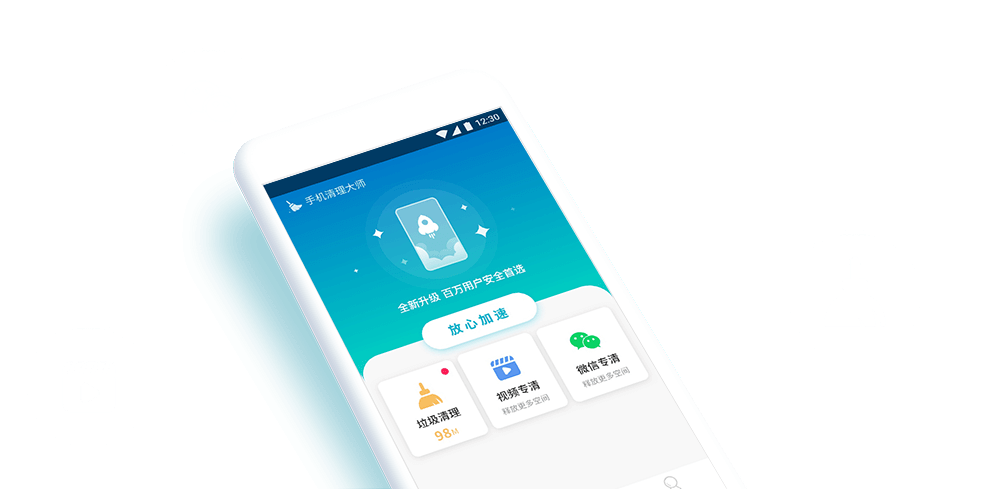
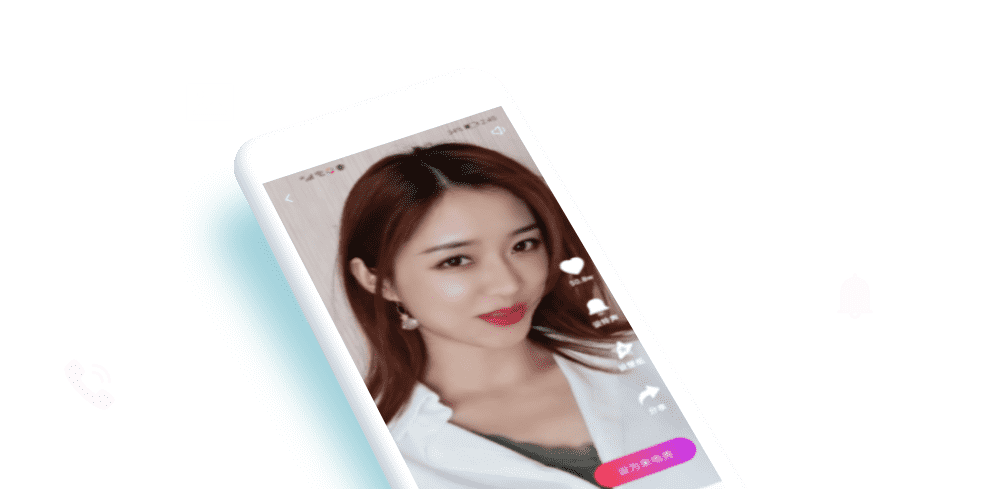
樱桃超炫来电秀

Changed region(s): [[0.248, 0.2147, 0.744, 1.0]]

diff --git a/src/components/clear.js b/src/components/clear.js
@@ -1,61 +1,74 @@
 import React, { Component } from 'react'
 import './clear.styl'
 class Clear extends Component {
-    constructor(props) {           
-       super(props);
-       this.state = {}
-    }
-    render() {
-        return (
-            <div className="clear">
-               <div className="box">
-                    <div className="article flex-between">
-                        <div className="left flex-column flex-justify-center">
-                            <img src={require("../assets/images/ic_bost_white.png")} alt="" width="104" height="104"/>
-                            <div className="title">手机加速</div>
-                            <div className="paragraph">
-                                清理无用进程，降低内存使用，消除卡顿，一键加速，让手机恢复出厂时的速度
-                            </div>
-
-                        </div>
-                        <div className="right">
-                            <img src={require("../assets/images/phone_boost.png")} alt=""/>
-                        </div>
-                    </div>
-               </div>
-               <div className="box middle">
-                    <div className="article flex-between">
-                        <div className="right ">
-                                <img src={require("../assets/images/phone_rubbishclean.png")} alt=""/>
-                        </div>
-                        <div className="left flex-column flex-justify-center">
-                            <img src={require("../assets/images/ic_rubbishclean_white.png")} alt="" width="104" height="104"/>
-                            <div className="title">垃圾清理</div>
-                            <div className="paragraph">
-                                智能扫描手机垃圾，急速清理，手机更干净，运行更快速
-                            </div>
-
-                        </div>
-                        
-                    </div>
-               </div>
-               <div className="box">
-                    <div className="article flex-between">
-                        <div className="left flex-column flex-justify-center">
-                            <img src={require("../assets/images/ic_wechatclean_white.png")} alt="" width="104" height="104"/>
-                            <div className="title">微信清理</div>
-                            <div className="paragraph">
-                                扫描微信缓存，让微信更快速，消除手机卡顿
-                            </div>
-
-                        </div>
-                        <div className="right">
-                            <img src={require("../assets/images/phone_wechatclean.png")} alt=""/>
-                        </div>
-                    </div>
-               </div>
+  constructor(props) {
+    super(props)
+    this.state = {}
+  }
+  render() {
+    return (
+      <div className="clear">
+        <div className="box middle">
+          <div className="article flex-between">
+            <div className="left flex-column flex-justify-center">
+              <img
+                src={require('../assets/images/ic_rubbishclean_white.png')}
+                alt=""
+                width="104"
+                height="104"
+              />
+              <div className="title">设置来电秀</div>
+              <div className="paragraph">
+                来电时的来电秀不再单一，不仅有铃声还有画面
+              </div>
             </div>
-        );
-    }
+            <div className="right ">
+              <img
+                src={require('../assets/images/phone_rubbishclean.png')}
+                alt=""
+              />
+            </div>
+          </div>
+        </div>
+        <div className="box">
+          <div className="article flex-between">
+            <div className="right">
+              <img
+                src={require('../assets/images/phone_wechatclean.png')}
+                alt=""
+              />
+            </div>
+            <div className="left flex-column flex-justify-center">
+              <img
+                src={require('../assets/images/ic_wechatclean_white.png')}
+                alt=""
+                width="104"
+                height="104"
+              />
+              <div className="title">设置壁纸</div>
+              <div className="paragraph">手机壁纸过于单调，为何不换张个性壁纸，海量壁纸任你选</div>
+            </div>
+          </div>
+        </div>
+        <div className="box middle">
+          <div className="article flex-between">
+            <div className="left flex-column flex-justify-center">
+              <img
+                src={require('../assets/images/ic_bost_white.png')}
+                alt=""
+                width="104"
+                height="104"
+              />
+              <div className="title">换铃声</div>
+              <div className="paragraph">换个铃声，换个心情，总有适合你的一款专属铃声</div>
+            </div>
+            <div className="right">
+              <img src={require('../assets/images/phone_boost.png')} alt="" />
+            </div>
+          </div>
+        </div>
+      </div>
+    )
+  }
 }
-export default Clear;
+export default Clear

diff --git a/src/components/PrivacyPolicy.js b/src/components/PrivacyPolicy.js
@@ -319,8 +319,8 @@ function PrivacyPolicy(props) {
               <div>2. 我们设立了个人信息保护专职部门，您可以通过发送邮件至【meinan@meetstarinc.com】的方式与其联系。</div>
               <div>3. 一般情况下，我们将在十五天内回复。如果您对我们的回复不满意，特别是我们的个人信息处理行为损害了您的合法权益，您还可以向网信、电信、公安及工商等监管部门进行投诉或举报，或者向有关管辖权的法院提起诉讼。</div>
               <div>4. 公司信息如下：</div>
-              <div>公司名称：北京科莱悦动科技有限公司</div>
-              <div>注册地址：北京市朝阳区高碑店乡半壁店村惠河南街1008号B座5层东区5016</div>
+              <div>公司名称：北京铂展悦动科技有限公司</div>
+              <div>注册地址：北京市朝阳区高碑店乡半壁店村惠河南街1008号B座5层东区5026</div>
               <div>联系方式： 邵先生  13021236277</div>
               <div>附录 ：相关名词解释：</div>
               <div>1. 个人信息：指以电子或者其他方式记录的能够单独或者与其他信息结合识别特定自然人身份或者反映特定自然人活动情况的各种信息。个人信息包括个人基本信息、个人身份信息、个人生物识别信息、网络身份标识信息、个人通信信息、联系人信息、个人上网记录、个人常用设备信息、个人位置信息等。为免疑义，个人信息包括但不限于个人敏感信息。个人信息的定义我国现行法律下极为宽泛，参照《GB/T 35273—2020》《信息安全技术 个人信息安全规范》的定义，我们主要收集和处理的个人信息包括：</div>
@@ -392,7 +392,7 @@ function PrivacyPolicy(props) {
                   </table>
               </div>
               <div>3. 个人信息主体：指个人信息所标识的自然人。</div>
-              <div>4. 我们、微蜜友：指北京科莱悦动科技有限公司。</div>
+              <div>4. 我们、微蜜友：指北京铂展悦动科技有限公司。</div>
               <div>5. 唯一设备标识符：唯一设备标识符（是指由设备制造商编入到设备中的一串字符，可用于以独有方式标识相应设备（例如手机的 IMEI 号、mac地址）。</div>
               <div>6. 去标识化，指通过对个人信息的技术处理，使其在不借助额外信息的情况下，无法识别个人信息主体的过程。</div>
               <div>

diff --git a/src/components/about.js b/src/components/about.js
@@ -11,26 +11,29 @@ class About extends Component {
             <div className="about-box">
                 <div className="about">
                 <div className="header flex flex-items-center">
-                    <img src={require('../assets/images/logo.png')} alt=""/>
-                    <h3 className="logo">金刚超速手机保卫者</h3>
+                    <img src={require('../assets/images/logo.png')} alt="" width="48" height="48"/>
+                    <h3 className="logo">樱桃超炫来电秀</h3>
                 </div>
                 <div className="title">
                     关于我们
                 </div>
                 <p className="content">
-                    金刚超速手机保卫者是北京科莱悦动科技有限公司开发的一款安卓手机软件，可以实现提升手机运行速度、垃圾清理、电池优化、软件管理等功能。
+                樱桃超炫来电秀是北京铂展悦动科技有限公司开发的一款安卓手机软件，可以实现设置来电秀、设置壁纸、设置铃声等功能。
+
                 </p>
                 <p className="content">
-                    金刚超速手机保卫者是一款超棒的手机垃圾清理优化软件。轻松快速的一键清理垃圾，释放手机内存！快捷的工具App，针对性的清理各种垃圾，能够将你手机系统自带以及各种应用、游戏运行所产生的垃圾一键清理，手机运行也更快。
+                在樱桃超炫来电秀APP中，汇集了海量的壁纸、视频、铃声，给用户提供众多可选择的素材，让用户的手机更加炫酷，每天都有好心情。
+
+
                 </p>
                 <div  className="title">
                     联系我们
                 </div>
                 <p className="content">
-                    公司名称：北京科莱悦动科技有限公司
+                    公司名称：北京铂展悦动科技有限公司
                 </p>
                 <p className="content">
-                    注册地址：北京市朝阳区高碑店乡半壁店村惠河南街1008号B座5层东区5016
+                    注册地址：北京市朝阳区高碑店乡半壁店村惠河南街1008号B座5层东区5026
                 </p>
                 <p className="content">
                     联系方式： 邵先生  13021236277

diff --git a/src/components/Eula.js b/src/components/Eula.js
@@ -9,7 +9,7 @@ function Eula(props) {
                 <div>发布时间：2020年8月20日</div>
                 <div>更新时间：2020年8月20日</div>
                 <div>欢迎您使用手机清理大师软件及服务！</div>
-                <div>手机清理大师是北京科莱悦动科技有限公司（以下简称“微蜜友”）开发的一款安卓手机软件，可以实现提升手机运行速度、垃圾清理、电池优化、软件管理等功能。</div>
+                <div>手机清理大师是北京铂展悦动科技有限公司（以下简称“微蜜友”）开发的一款安卓手机软件，可以实现提升手机运行速度、垃圾清理、电池优化、软件管理等功能。</div>
                 <div>i.为使用手机清理大师产品及相应服务，您应当阅读并遵守本协议及手机清理大师隐私政策。请您务必审慎阅读、充分理解各条款内容，特别是免除或者限制责任的条款，并选择接受或不接受。限制、免责条款可能以加粗形式提示你注意。 </div>
                 <div>ii.除非你已阅读并接受本协议所有条款，否则你无权下载、安装或使用本软件及相关服务。您的下载、安装、使用、登录等行为即视为你已阅读并同意上述协议的约束。如您不同意本协议及隐私政策，请您立即停止使用本软件及服务。 </div>
                 <div>iii.此协议在必要时将随时进行修改更新，每次改动都会立即生效。你可以在本软件的最新版本中查阅相关协议条款。本协议条款变更后，如果您继续使用本软件，即视为您已接受修改后的协议。如果您拒绝接受修改后的协议，您应当停止使用本软件，并放弃使用手机清理大师提供的服务；若您继续使用手机清理大师提供的服务，则表明您接受新的协议。</div>
@@ -132,7 +132,7 @@ function Eula(props) {
                     微蜜友在法律允许的最大范围内保有对手机清理大师任何活动、限制等的最终解释权。
                 </div>
                 <div>
-                    北京科莱悦动科技有限公司
+                    北京铂展悦动科技有限公司
                 </div>
               </div>
               <Footer></Footer>

diff --git a/src/components/main.js b/src/components/main.js
@@ -12,18 +12,18 @@ class Main extends Component {
                 <div className="title-icon flex-between flex-items-center">
                         <div className="flex-column flex-items-center">
                             <img src={require("../assets/images/ic_boost.png")} alt="" width="116" height="116"/>
-                            <div className="subtitle">手机加速</div>
-                            <div className="paragraph">一键加速，释放内存</div>
+                            <div className="subtitle">设置来电秀</div>
+                            <div className="paragraph">来电秀更加与众不同</div>
                         </div>
                         <div className="flex-column flex-items-center">
                             <img src={require("../assets/images/ic_rubbishclean.png")} alt="" width="116" height="116"/>
-                            <div className="subtitle">垃圾清理</div>
-                            <div className="paragraph">智能识别，急速清理</div>
+                            <div className="subtitle">设置壁纸</div>
+                            <div className="paragraph">换张壁纸，换个心情</div>
                         </div>
                         <div className="flex-column flex-items-center">
                             <img src={require("../assets/images/ic_wechatclean.png")} alt="" width="116" height="116"/>
-                            <div className="subtitle">微信清理</div>
-                            <div className="paragraph">微信专清，杜绝卡慢</div>
+                            <div className="subtitle">换铃声</div>
+                            <div className="paragraph">告别单调的铃声</div>
                         </div>
                 </div>
                 </div>

diff --git a/src/components/footer.js b/src/components/footer.js
@@ -13,20 +13,20 @@ class Footer extends Component {
                     <div className="flex-between">
                             <div className="left flex-items-center">
                                 <img src={require("../assets/images/logo.png")} alt="" width="32" height="32"/>
-                                <span>金刚超速手机保卫者</span> 
+                                <span>樱桃超炫来电秀</span> 
                             </div>
                             <div className="right flex-items-center">
                                 <Link to="/">首页</Link>
                                 <span></span>
                                 <Link to="/about">关于我们</Link>
                                 <span></span>
-                                <a href="https://s3.cn-north-1.amazonaws.com.cn/static.suapp.mobi/jgql/service_agreement.html">服务协议</a>
+                                <a href="http://static.suapp.mobi/ytldx/service_agreement.html">服务协议</a>
                                 <span></span>
-                                <a href="https://s3.cn-north-1.amazonaws.com.cn/static.suapp.mobi/jgql/privacy_policy.html">隐私政策</a>
+                                <a href="http://static.suapp.mobi/ytldx/privacy_policy.html">隐私政策</a>
                             </div>
                     </div>
                     <div className="copyright">
-                       Copyright(C)2018-2021 北京科莱悦动科技有限公司
+                       Copyright(C)2020-2021 北京铂展悦动科技有限公司
                     </div>
                     
                </div>

diff --git a/src/components/nav.js b/src/components/nav.js
@@ -8,17 +8,17 @@ function nav(props) {
                     <div className="content flex-between">
                         <div className="left flex-items-center">
                         <img src={require("../assets/images/logo.png")} alt="" width="48" height="48"/> 
-                            <span className="fs-30 ml-10">金刚超速手机保卫者</span>
-                            <div className="label fs-18">让手机更流畅更好用</div>
+                            <span className="fs-30 ml-10">樱桃超炫来电秀</span>
+                            <div className="label fs-18">让手机来电更绚丽</div>
                         </div>
                         <div className="right flex-items-center">
                              <Link to="/">首页</Link>
                             <span></span>
                             <Link to="/about">关于我们</Link>
                             <span></span>
-                            <a href="https://s3.cn-north-1.amazonaws.com.cn/static.suapp.mobi/jgql/service_agreement.html">服务协议</a>
+                            <a href="http://static.suapp.mobi/ytldx/service_agreement.html">服务协议</a>
                             <span></span>
-                            <a href="https://s3.cn-north-1.amazonaws.com.cn/static.suapp.mobi/jgql/privacy_policy.html">隐私政策</a>
+                            <a href="http://static.suapp.mobi/ytldx/privacy_policy.html">隐私政策</a>
                         </div>
                     </div>
                </header>

diff --git a/src/components/header.js b/src/components/header.js
@@ -14,17 +14,17 @@ class Header extends Component {
                <div className="banner">
                     <div className="banner-main">
                         <div className="title flex-justify-center">
-                            金刚超速手机保卫者
+                            樱桃超炫来电秀
                         </div>
                         <div className="subtitle flex-justify-center flex-items-center">
-                            <i>简洁</i>
+                            <i>酷炫</i>
                             <span></span>
-                            <i>极速</i>
+                            <i>有趣</i>
                             <span></span>
-                            <i>高效</i>
+                            <i>个性</i>
                         </div>
                         <div className="flex-justify-center">
-                            <a href="https://cdn.suapp.mobi/app/app-sevenstar-release_jingang.apk" className="download flex-items-center flex-justify-center">
+                            <a href="http://cdn.suapp.mobi/app/sevenstar-t26-A0-vc12-vn1.0.4664.apk" className="download flex-items-center flex-justify-center">
                                 <img src={require("../assets/images/ic_android.png")} alt="" width="36" height="36"/>
                                 <span>Andorid版下载</span>
                             </a>

diff --git a/public/index.html b/public/index.html
@@ -25,7 +25,7 @@
       work correctly both with client-side routing and a non-root public URL.
       Learn how to configure a non-root public URL by running `npm run build`.
     -->
-    <title>金刚超速手机保卫者</title>
+    <title>樱桃超炫来电秀</title>
   </head>
   <body>
     <noscript>You need to enable JavaScript to run this app.</noscript>
